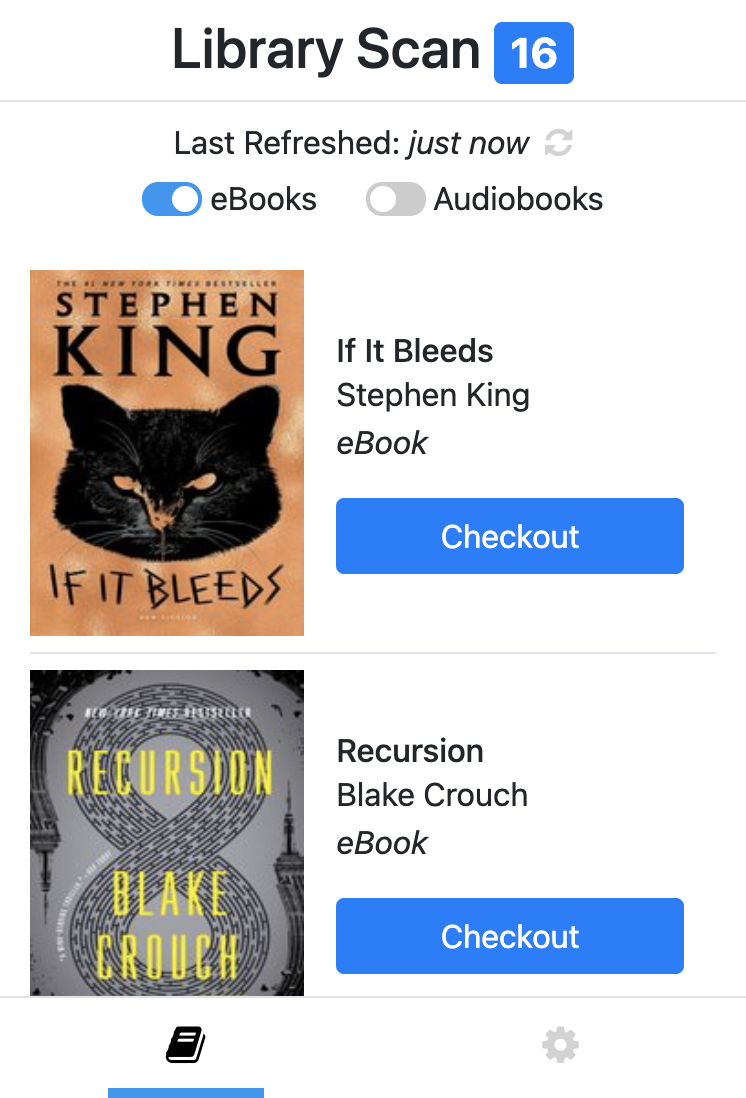
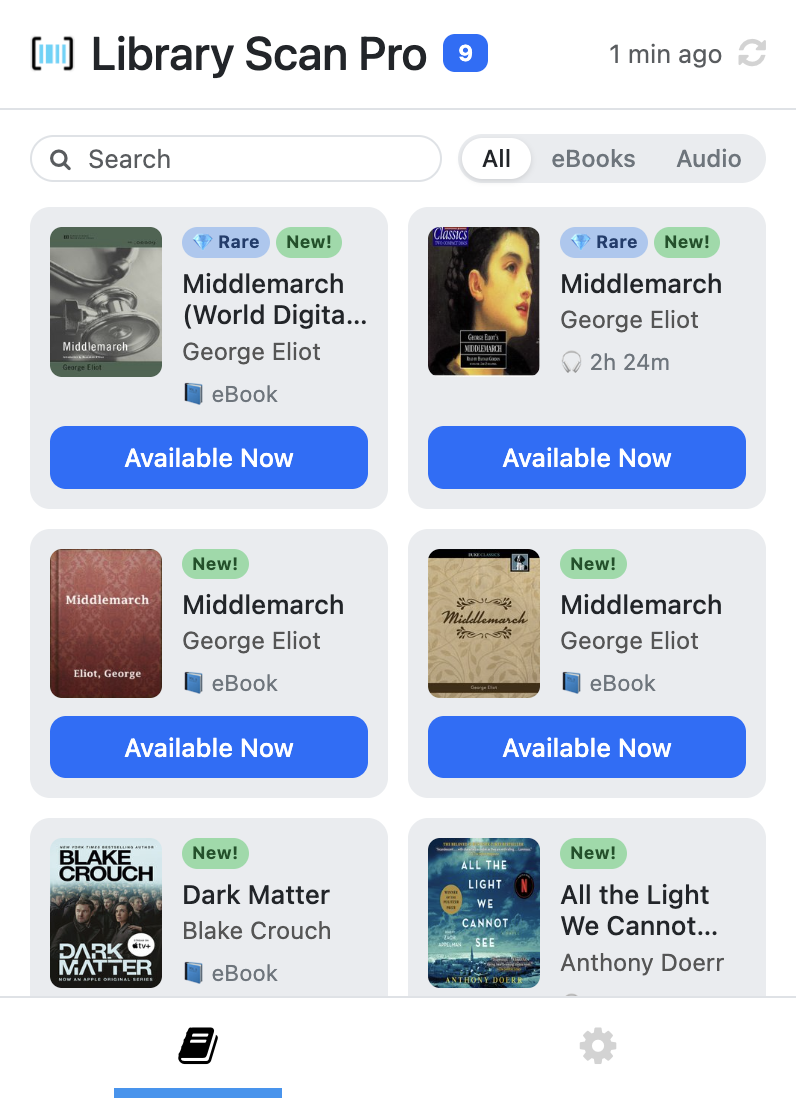
Library Scan Privacy Policy

diff --git a/library-scan.html b/library-scan.html
@@ -31,9 +31,9 @@
     <!-- Favicon -->
     <link rel='shortcut icon' type='image/x-icon' href='assets/favicon.ico' />
     <!-- Metadata -->
-    <meta property="og:title" content="Library Scan: Goodreads + OverDrive">
+    <meta property="og:title" content="Library Scan: OverDrive (Libby) + Goodreads">
     <meta property="og:description"
-        content="Scan any OverDrive library for available eBooks & audiobooks from your Goodreads to-read shelf. Find titles immediately available for checkout, place holds on upcoming books, filter by media type & availability, and automatically re-scan daily.">
+        content="Scan your OverDrive (Libby) libraries for available eBooks & audiobooks from your Goodreads shelves. Find titles immediately available for checkout, place holds on upcoming books, search & filter results, and automatically re-scan daily.">
     <meta property="og:image"
         content="https://raw.githubusercontent.com/isaacbock/isaacbock/master/assets/LibraryScanPromo.jpg">
     <meta property="og:url" content="https://isaacbock.com/library-scan">
@@ -49,7 +49,7 @@
         <div id="menu">
             <a href="#start" id="start_nav_link" style="display: none;">🚀 Get Started</a>
             <a href="#faq">🙋 FAQ</a>
-            <a href="#mailgo" data-address="isaactbock" data-domain="wustl.edu" id="contact">👋 Contact</a>
+            <a href="#mailgo" data-address="isaacbock" data-domain="gmail.com" id="contact">👋 Contact</a>
         </div>
     </div>
     <div id="banner" class="grey">
@@ -57,13 +57,13 @@
             <div>
                 <img src="assets/LibraryScanLogo.png" alt="Library Scan Logo" id="library_scan_logo">
                 <div>
-                    <h2>Goodreads + OverDrive:</h2>
+                    <h2>OverDrive (Libby) + Goodreads:</h2>
                     <h1>Library Scan</h1>
                 </div>
             </div>
-            <p>Scan any OverDrive library for available eBooks & audiobooks from your Goodreads to-read shelf. Find
-                titles immediately available for checkout, place holds on upcoming books, filter by media type &
-                availability, and automatically re-scan daily.</p>
+            <p>Scan your OverDrive (Libby) libraries for available eBooks & audiobooks from your Goodreads shelves. Find
+                titles immediately available for checkout, place holds on upcoming books, search & filter results,
+                and automatically re-scan daily.</p>
             <a href="https://chrome.google.com/webstore/detail/mfckggnkebdpaocogfekaaicafooeiik" id="download">Add to
                 Chrome</a>
             <div id="already-downloaded" style="display: none;">
@@ -78,6 +78,18 @@
         <div id="changelog" class="anchor">
             <h1>What's new? 📦</h1>
             <div>
+                <div>
+                    <h2>Version 2.0.0 <span class="date">(04/01/26)</span></h2>
+                    <ul>
+                        <li>Introducing Library Scan Pro! Daily auto-scans with desktop notifications, multiple OverDrive (Libby) libraries, multiple Goodreads shelves, and unlimited books per scan</li>
+                    </ul>
+                    <ul>
+                        <li>Completely redesigned interface with guided setup wizard & profile auto-detection</li>
+                    </ul>
+                    <ul>
+                        <li>Search your results & OverDrive (Libby) libraries by title and author</li>
+                    </ul>
+                </div>
                 <div>
                     <h2>Version 1.0.2 <span class="date">(05/22/21)</span></h2>
                     <ul>
@@ -116,23 +128,23 @@
             <h2>2. Pin to Bookmarks Bar for Easy Access</h2>
             <img src="assets/Pin%20Extension.gif" alt="Pin Extension" class="instructionImage">
             <h2 id="goodreads" class="anchor">3. Connect Your Goodreads Account</h2>
-            <p>Navigate to your Goodreads profile page. The number listed within the page URL is your ID number—enter it
-                into Library Scan to connect your Goodreads account.</p>
+            <p>Paste your Goodreads profile URL into Library Scan, or click the auto-detect button while logged in to
+                Goodreads to connect automatically.</p>
             <p><em>ex) https://www.goodreads.com/user/show/<strong>12345678</strong>-isaac</em></p>
-            <p>Your account must also be public, a setting which can be modified <a
+            <p>Your account must be publicly viewable so Library Scan can access your shelves. You can change this setting <a
                     href="https://www.goodreads.com/user/edit?tab=settings" target="_blank">here</a>.</p>
-            <h2 id="overdrive" class="anchor">4. Connect Your OverDrive Library</h2>
-            <p>Please enter the entire URL of your OverDrive library. For example, the New York Public Library can be
+            <h2 id="overdrive" class="anchor">4. Connect Your OverDrive (Libby) Library</h2>
+            <p>Enter the URL of your OverDrive library. For example, the New York Public Library can be
                 found at https://nypl.overdrive.com.</p>
             <p>Unsure? You can search for your local library <a href="https://www.overdrive.com/libraries"
-                    target="_blank">here</a>.</p>
+                    target="_blank">here</a>. Pro users can add multiple libraries.</p>
             <h2>5. Start Scanning!</h2>
-            <p>Toggle any eBooks and/or audiobooks preferences and <em>Submit</em> to start scanning!</p>
+            <p>Hit "Start Scanning" and Library Scan will find which books from your Goodreads shelves are available at your libraries!</p>
         </div>
         <div id="faq" class="anchor">
             <h1>FAQ 🙋</h1>
-            <h2>Can I connect multiple OverDrive libraries?</h2>
-            <p>Right now, Library Scan only supports one OverDrive library at a time.</p>
+            <h2>Can I connect multiple OverDrive (Libby) libraries?</h2>
+            <p>Yes! With Library Scan Pro, you can scan across all your library cards at once. Free users can connect one library.</p>
             <h2>Does my Goodreads profile need to be public?</h2>
             <p>Yes—your account must be publicly viewable so Library Scan can see the books you've shelved. You can make
                 this privacy change <a href="https://www.goodreads.com/user/edit?tab=settings" target="_blank">here</a>

diff --git a/library-scan-privacy-policy.html b/library-scan-privacy-policy.html
@@ -1,0 +1,94 @@
+<!DOCTYPE html>
+<html lang="en">
+
+<head>
+    <meta charset="UTF-8">
+    <meta name="viewport" content="width=device-width, initial-scale=1.0">
+    <meta name="robots" content="noindex">
+    <!-- Favicon -->
+    <link rel='shortcut icon' type='image/x-icon' href='assets/favicon.ico' />
+    <!-- Metadata -->
+    <meta property="og:title" content="Library Scan: Privacy Policy">
+    <meta property="og:description" content="Privacy policy for the Library Scan Chrome extension.">
+    <meta property="og:url" content="https://isaacbock.com/library-scan-privacy-policy">
+    <!-- Styling -->
+    <link href="https://fonts.googleapis.com/css?family=Poppins:100,200,400,300,500,600,700" rel="stylesheet">
+    <link rel="stylesheet" type="text/css" href="css/libraryScan.css">
+    <title>Library Scan — Privacy Policy</title>
+</head>
+
+<body>
+    <div id="header">
+        <a href="/" id="logo"></a>
+        <div id="menu">
+            <a href="/library-scan">Library Scan</a>
+            <a href="#mailgo" data-address="isaacbock" data-domain="gmail.com" id="contact">Contact</a>
+        </div>
+    </div>
+    <div id="content" class="grey" style="padding-top: 100px;">
+        <div>
+            <h1>Privacy Policy</h1>
+            <p><strong>Library Scan: OverDrive (Libby) + Goodreads</strong><br>
+            Last updated: April 1, 2026</p>
+
+            <h2>What Data is Collected</h2>
+            <p>Library Scan collects the following data, all of which is stored locally on your device:</p>
+            <ul>
+                <li>Your Goodreads user ID (numeric, entered by you)</li>
+                <li>Your OverDrive library URLs (entered by you)</li>
+                <li>Your selected Goodreads shelves and filter preferences</li>
+                <li>Book titles and availability results from scans</li>
+                <li>Your Library Scan Pro purchase status</li>
+            </ul>
+            <p>This data is stored in Chrome's local storage and never leaves your device except as described below.</p>
+
+            <h2>Analytics</h2>
+            <p>Library Scan uses Google Analytics 4 (via the Measurement Protocol) to collect anonymous usage statistics
+                that help improve the extension. The following data is sent to Google Analytics:</p>
+            <ul>
+                <li>Extension events such as installs, scans, and feature usage</li>
+                <li>Aggregate counts (e.g., number of books found, number of libraries scanned)</li>
+                <li>Error information to help diagnose and fix bugs</li>
+                <li>A randomly generated anonymous identifier to distinguish unique users</li>
+                <li>Your IP address, which Google uses for approximate geographic reporting (country/region level) but does not store</li>
+            </ul>
+            <p>No personally identifiable information (names, email addresses, Goodreads usernames, or book titles) is sent to Google Analytics.</p>
+
+            <h2>Third-Party Services</h2>
+            <p>Library Scan interacts with the following third-party services:</p>
+            <ul>
+                <li><strong>Goodreads</strong> (goodreads.com) — to fetch your book shelves via public RSS feeds</li>
+                <li><strong>OverDrive</strong> (overdrive.com) — to check book availability at your libraries</li>
+                <li><strong>Google Analytics</strong> (google-analytics.com) — to collect anonymous usage statistics</li>
+                <li><strong>ExtensionPay / Stripe</strong> (extensionpay.com) — to process Library Scan Pro purchases. Payment information is handled entirely by Stripe and is never accessible to Library Scan.</li>
+            </ul>
+
+            <h2>Data Sharing</h2>
+            <p>Library Scan does not sell, transfer, or share your data with third parties for purposes unrelated to the
+                extension's functionality. Anonymous usage data sent to Google Analytics is governed by
+                <a href="https://policies.google.com/privacy" target="_blank">Google's Privacy Policy</a>.</p>
+
+            <h2>Data Storage and Security</h2>
+            <p>All personal data (Goodreads ID, library URLs, scan results) is stored locally on your device using
+                Chrome's storage API. No account or server-side storage is used. Uninstalling the extension removes all
+                locally stored data.</p>
+
+            <h2>Your Goodreads Profile</h2>
+            <p>Library Scan requires your Goodreads profile to be publicly viewable in order to access your book shelves
+                via RSS feeds. Library Scan does not log in to your Goodreads account or access any private data.</p>
+
+            <h2>Contact</h2>
+            <p>If you have questions about this privacy policy, please use the Contact button in the header above.</p>
+        </div>
+    </div>
+
+    <!-- jQuery -->
+    <script src="https://code.jquery.com/jquery-3.6.0.slim.min.js"
+        integrity="sha256-u7e5khyithlIdTpu22PHhENmPcRdFiHRjhAuHcs05RI=" crossorigin="anonymous"></script>
+    <!-- Mailgo Email Linking -->
+    <script src="https://cdn.jsdelivr.net/npm/mailgo@0.9.7/dist/mailgo.min.js"></script>
+    <!-- JS -->
+    <script src="js/libraryScan.js"></script>
+</body>
+
+</html>
